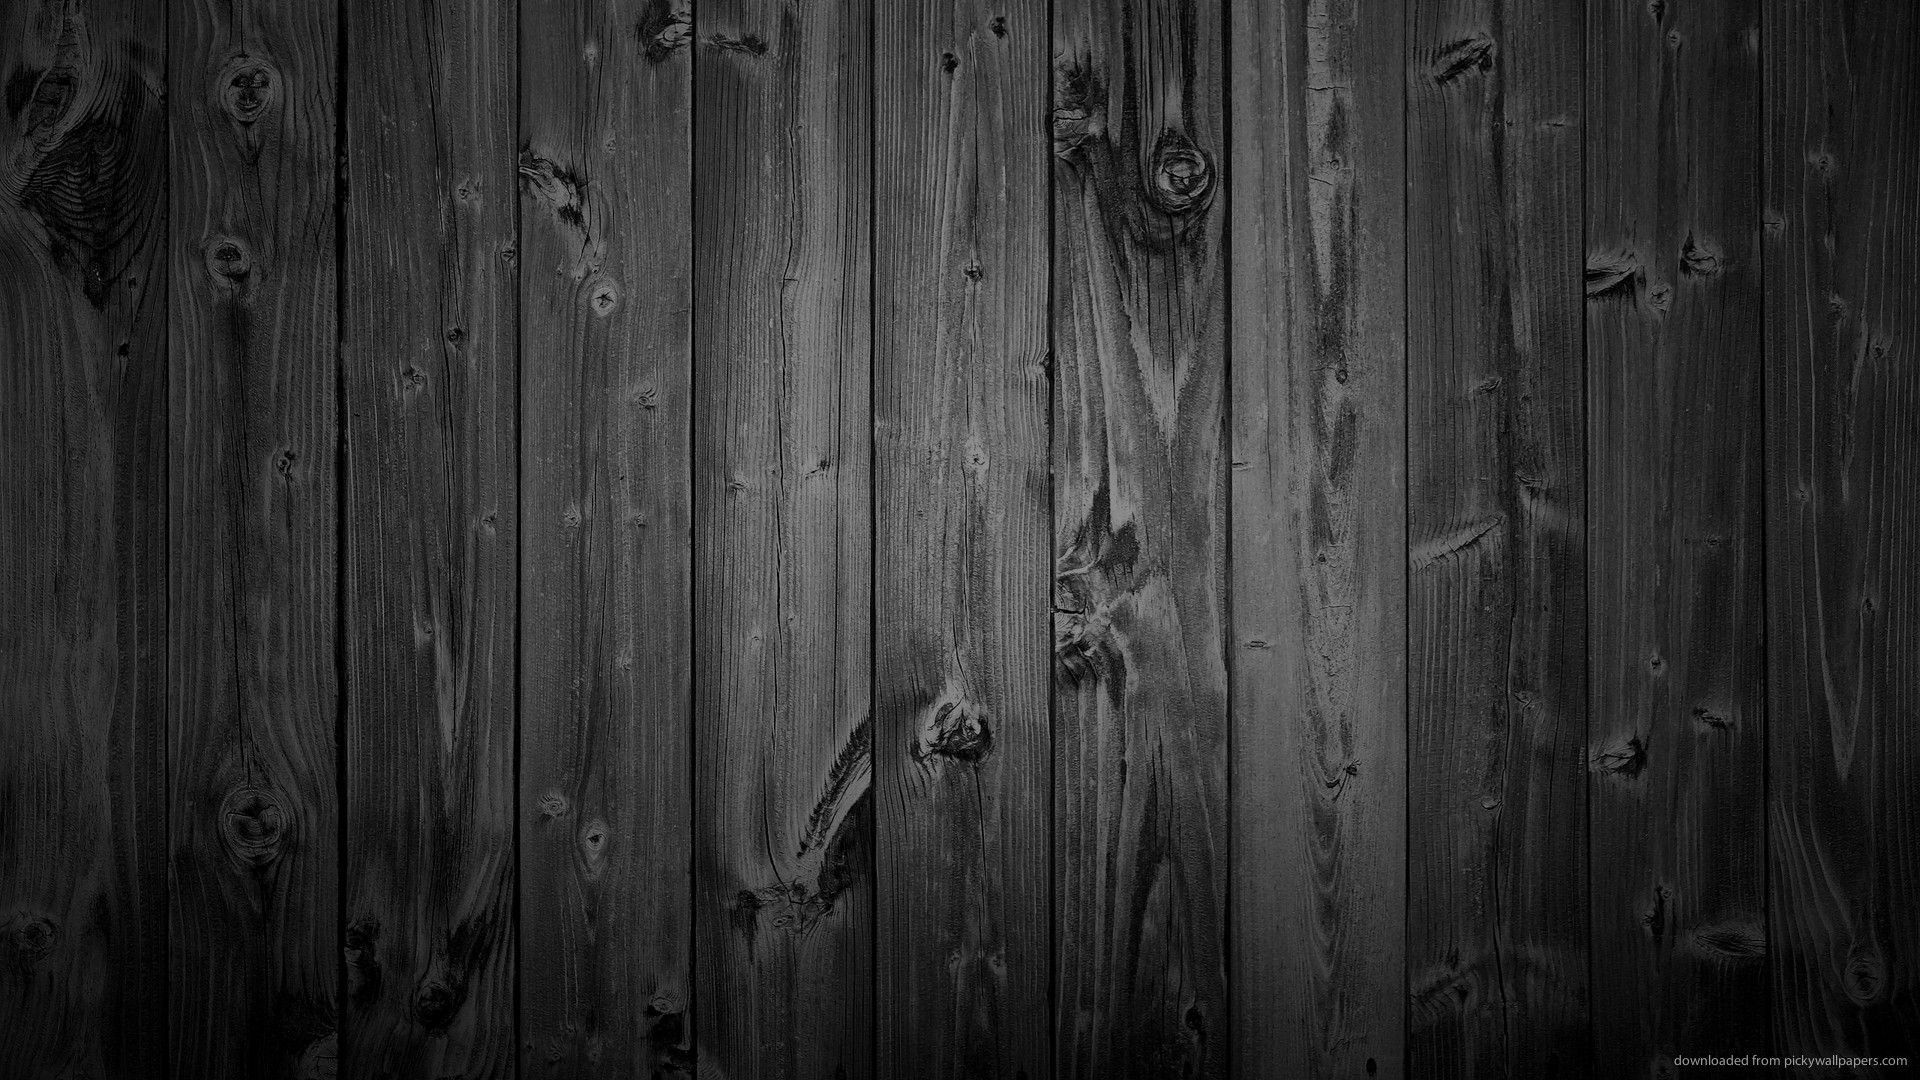
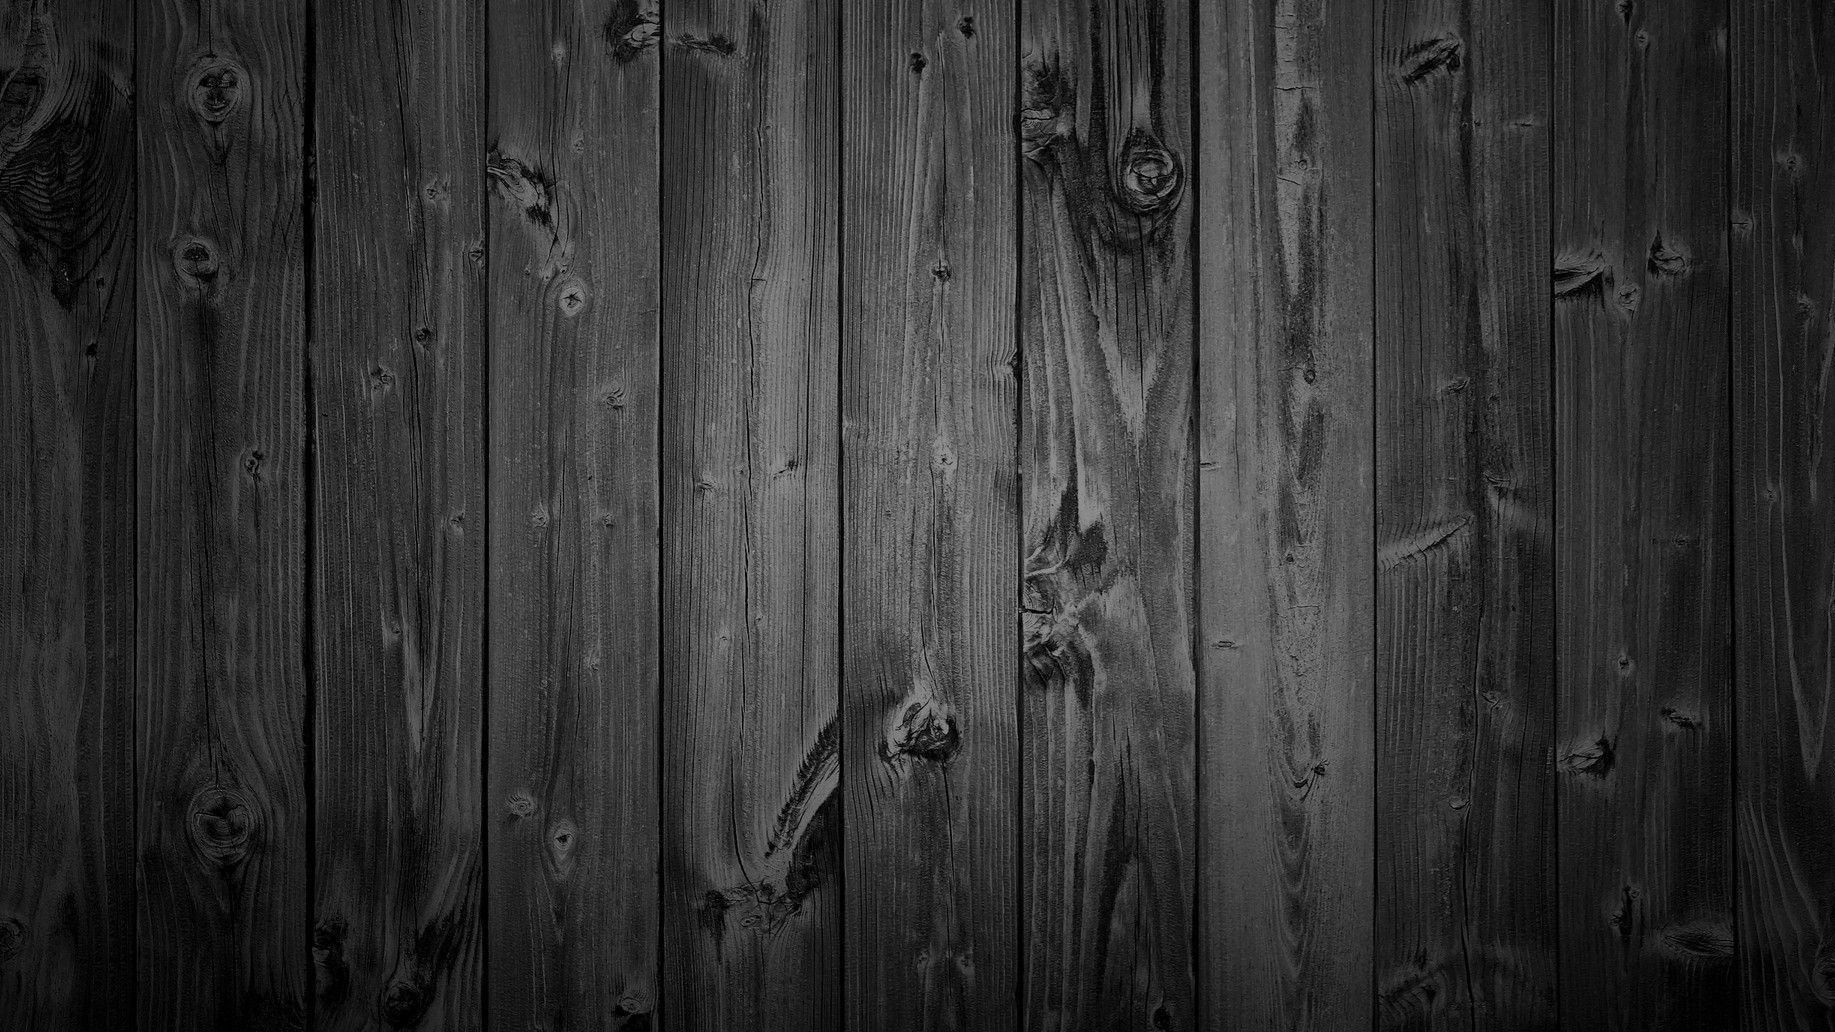
Added GameUI background

diff --git a/src/UI.py b/src/UI.py
@@ -1,4 +1,4 @@
-from tkinter.constants import LEFT, RIGHT
+from tkinter.constants import ANCHOR, LEFT, RIGHT
 import pygame
 import math
 import sys, os
@@ -6,20 +6,6 @@ import tkinter as tk
 from PIL import Image
 from PIL import ImageTk
 
-tempFilePath = os.path.abspath("Othello_AI")
-# print("This is the file path:", tempFilePath)
-
-OthelloAIPath = os.path.dirname(tempFilePath)
-# print("This is the parent path:", OthelloAIPath)
-
-picsPath = OthelloAIPath + "\src\pics"
-# print("This is the pics path:", picsPath)
-picsPath = picsPath.replace("\\", "/") 
-
-# sys.path.insert(1, picsPath)
-# On/off states
-programOn = False
-menuOn = False
 
 PI = math.pi
 
@@ -27,14 +13,16 @@ PI = math.pi
 
 
 reddish = '#6E4137'
-yellowish = '#E8E4A0'
+yellowish = '#D1CFA6'
 blueish = '#274098'
 darkGreyish='#797D7F'
 darkish = '#17202A'
 greyish = '#A69E99'
+windowWidth = 800
+windowHeight = 800
 root = tk.Tk()
 root.title('OTHELLO')
-root.geometry("800x800")
+root.geometry(str(windowWidth) + "x" + str(windowHeight))
 root['background'] = "black"
 
 def clear_frame(frame):
@@ -43,25 +31,27 @@ def clear_frame(frame):
 
 class Images():
     def __init__(self) -> None:
-        self.titleImg = ImageTk.PhotoImage(Image.open(picsPath + "/woodPaint5.jpg"))
-    
+        tempFilePath = os.path.abspath("Othello_AI")
+        # print("This is the file path:", tempFilePath)
 
-class Menu():
+        OthelloAIPath = os.path.dirname(tempFilePath)
+        # print("This is the parent path:", OthelloAIPath)
+
+        picsPath = OthelloAIPath + "\src\pics"
+        # print("This is the pics path:", picsPath)
+        picsPath = picsPath.replace("\\", "/") 
+
+        self.woodImage = ImageTk.PhotoImage(Image.open(picsPath + "/woodPaint5.jpg"))
+        self.woodImage2 = ImageTk.PhotoImage(Image.open(picsPath + "/wood2-3.jpg"))
+
+class MenuUI():
     def __init__(self, images) -> None:
         #Create a frame
         self.frame = tk.Frame(root, bg=darkish, padx = 0, pady=10)
         #create a label that holds the picture
-        self.imgLabel = tk.Label(root, image=images.titleImg, borderwidth=0, highlightthickness=0)
-
-    def PvCButtonReact(self):
-        # Clear all the widgets in the frame
-        clear_frame(self.frame)
-        # forgetting the frame (clears it from screen but reference to it is held)
-        self.frame.pack_forget()
-        # Clear the title picture
-        self.imgLabel.pack_forget()
+        self.imgLabel = tk.Label(root, image=images.woodImage, borderwidth=0, highlightthickness=0)
     
-    def PvPButtonReact(self):
+    def clearScreen(self):
         # Clear all the widgets in the frame
         clear_frame(self.frame)
         # forgetting the frame (clears it from screen but reference to it is held)
@@ -69,7 +59,18 @@ class Menu():
         # Clear the title picture
         self.imgLabel.pack_forget()
 
-    def drawMenu(self):
+    def PvCButtonReact(self, game_ui):
+        self.clearScreen()
+        game_ui.mode = "PVC"
+        game_ui.drawAndReact(self)
+    
+    def PvPButtonReact(self, game_ui):
+        self.clearScreen()
+        game_ui.mode = "PVP"
+        game_ui.drawAndReact(self)
+
+
+    def drawAndReact(self, game_ui):
         # Pack the frame to the left
         self.frame.pack(side="bottom", fill = "x", padx=0) # , expand=True, fill="both" '''
         
@@ -80,22 +81,34 @@ class Menu():
         # Create button
         PVC_text = """PLAYER V COMPUTER
         """
-        button1 = tk.Button(self.frame, background=darkGreyish, foreground='white',text= PVC_text, font=('Helvetica bold', 12),
-            width=25, pady=30, borderwidth=20, command=self.PvCButtonReact)
+        button1 = tk.Button(self.frame, background=greyish, foreground='white',text= PVC_text, font=('Helvetica bold', 12),
+            width=25, pady=30, borderwidth=20, command=lambda:self.PvCButtonReact(game_ui))
         button1.grid(row=0, column=0, padx=80)
         
         # Create button2
         PVP_text = """PLAYER V PLAYER
         """
-        button2 = tk.Button(self.frame, background=darkGreyish, foreground='white',text= PVP_text, font=('Helvetica bold', 12),
-            width=25, pady=30, borderwidth=20, command=self.PvPButtonReact)
+        button2 = tk.Button(self.frame, background=greyish, foreground='white',text= PVP_text, font=('Helvetica bold', 12),
+            width=25, pady=30, borderwidth=20, command=lambda:self.PvPButtonReact(game_ui))
         button2.grid(row=0, column=1, padx=32)
         
         # pack image from label
         self.imgLabel.pack(pady=0, padx=0)
 
-        
+class GameUI:
+    def __init__(self, images) -> None:
+        self.mode = ""  
+        self.background = images.woodImage2
+        # Create canvas
+        self.canvas = tk.Canvas(root, borderwidth=0, highlightthickness=0)
+    
 
+    def drawAndReact(self, menu_ui):
+        self.canvas.pack(fill="both", expand="True") 
+        # Set image in canvas
+        self.canvas.create_image(0, 0, image=self.background, anchor="nw")
+
+        
 '''
 pygame.init()
 

diff --git a/src/main.py b/src/main.py
@@ -1,50 +1,26 @@
 import pygame
 import tkinter as tk
 import math
-from global_setup import *
-
-
-
-
-def menuLoop():
-    global menuOn, programOn, GameTitle
-    
-    '''screen.fill(BLACK)
-    screen.blit(GameTitle, [120, 0])
-    pygame.display.flip() '''
-    while programOn and menuOn:
-        pass
-
-
-
-
-
-
-def drawMenu():
-    label = tk.Label(text="Python rocks!")
-    label.pack()
-
+from UI import *
 
 
 # -------- Main Program -----------
 def main():
 
-    
-    global programOn, menuOn
-    programOn = True
-    menuOn = True
-
+    # Create an images object storing images from the subdirectory
     images = Images()
-    menu = Menu(images)
-    menu.drawMenu()
+    # create UI objects
+    menu_ui = MenuUI(images)
+    game_ui = GameUI(images)
+
+    # Draw menu and pass in game_ui so that the menu buttons, when clicked, will call game_ui methods
+    menu_ui.drawAndReact(game_ui) 
     
     
     root.mainloop()
     
 
 
-    # Close the window and quit.
-    # pygame.quit()
 
 if __name__ == "__main__":
     main()
